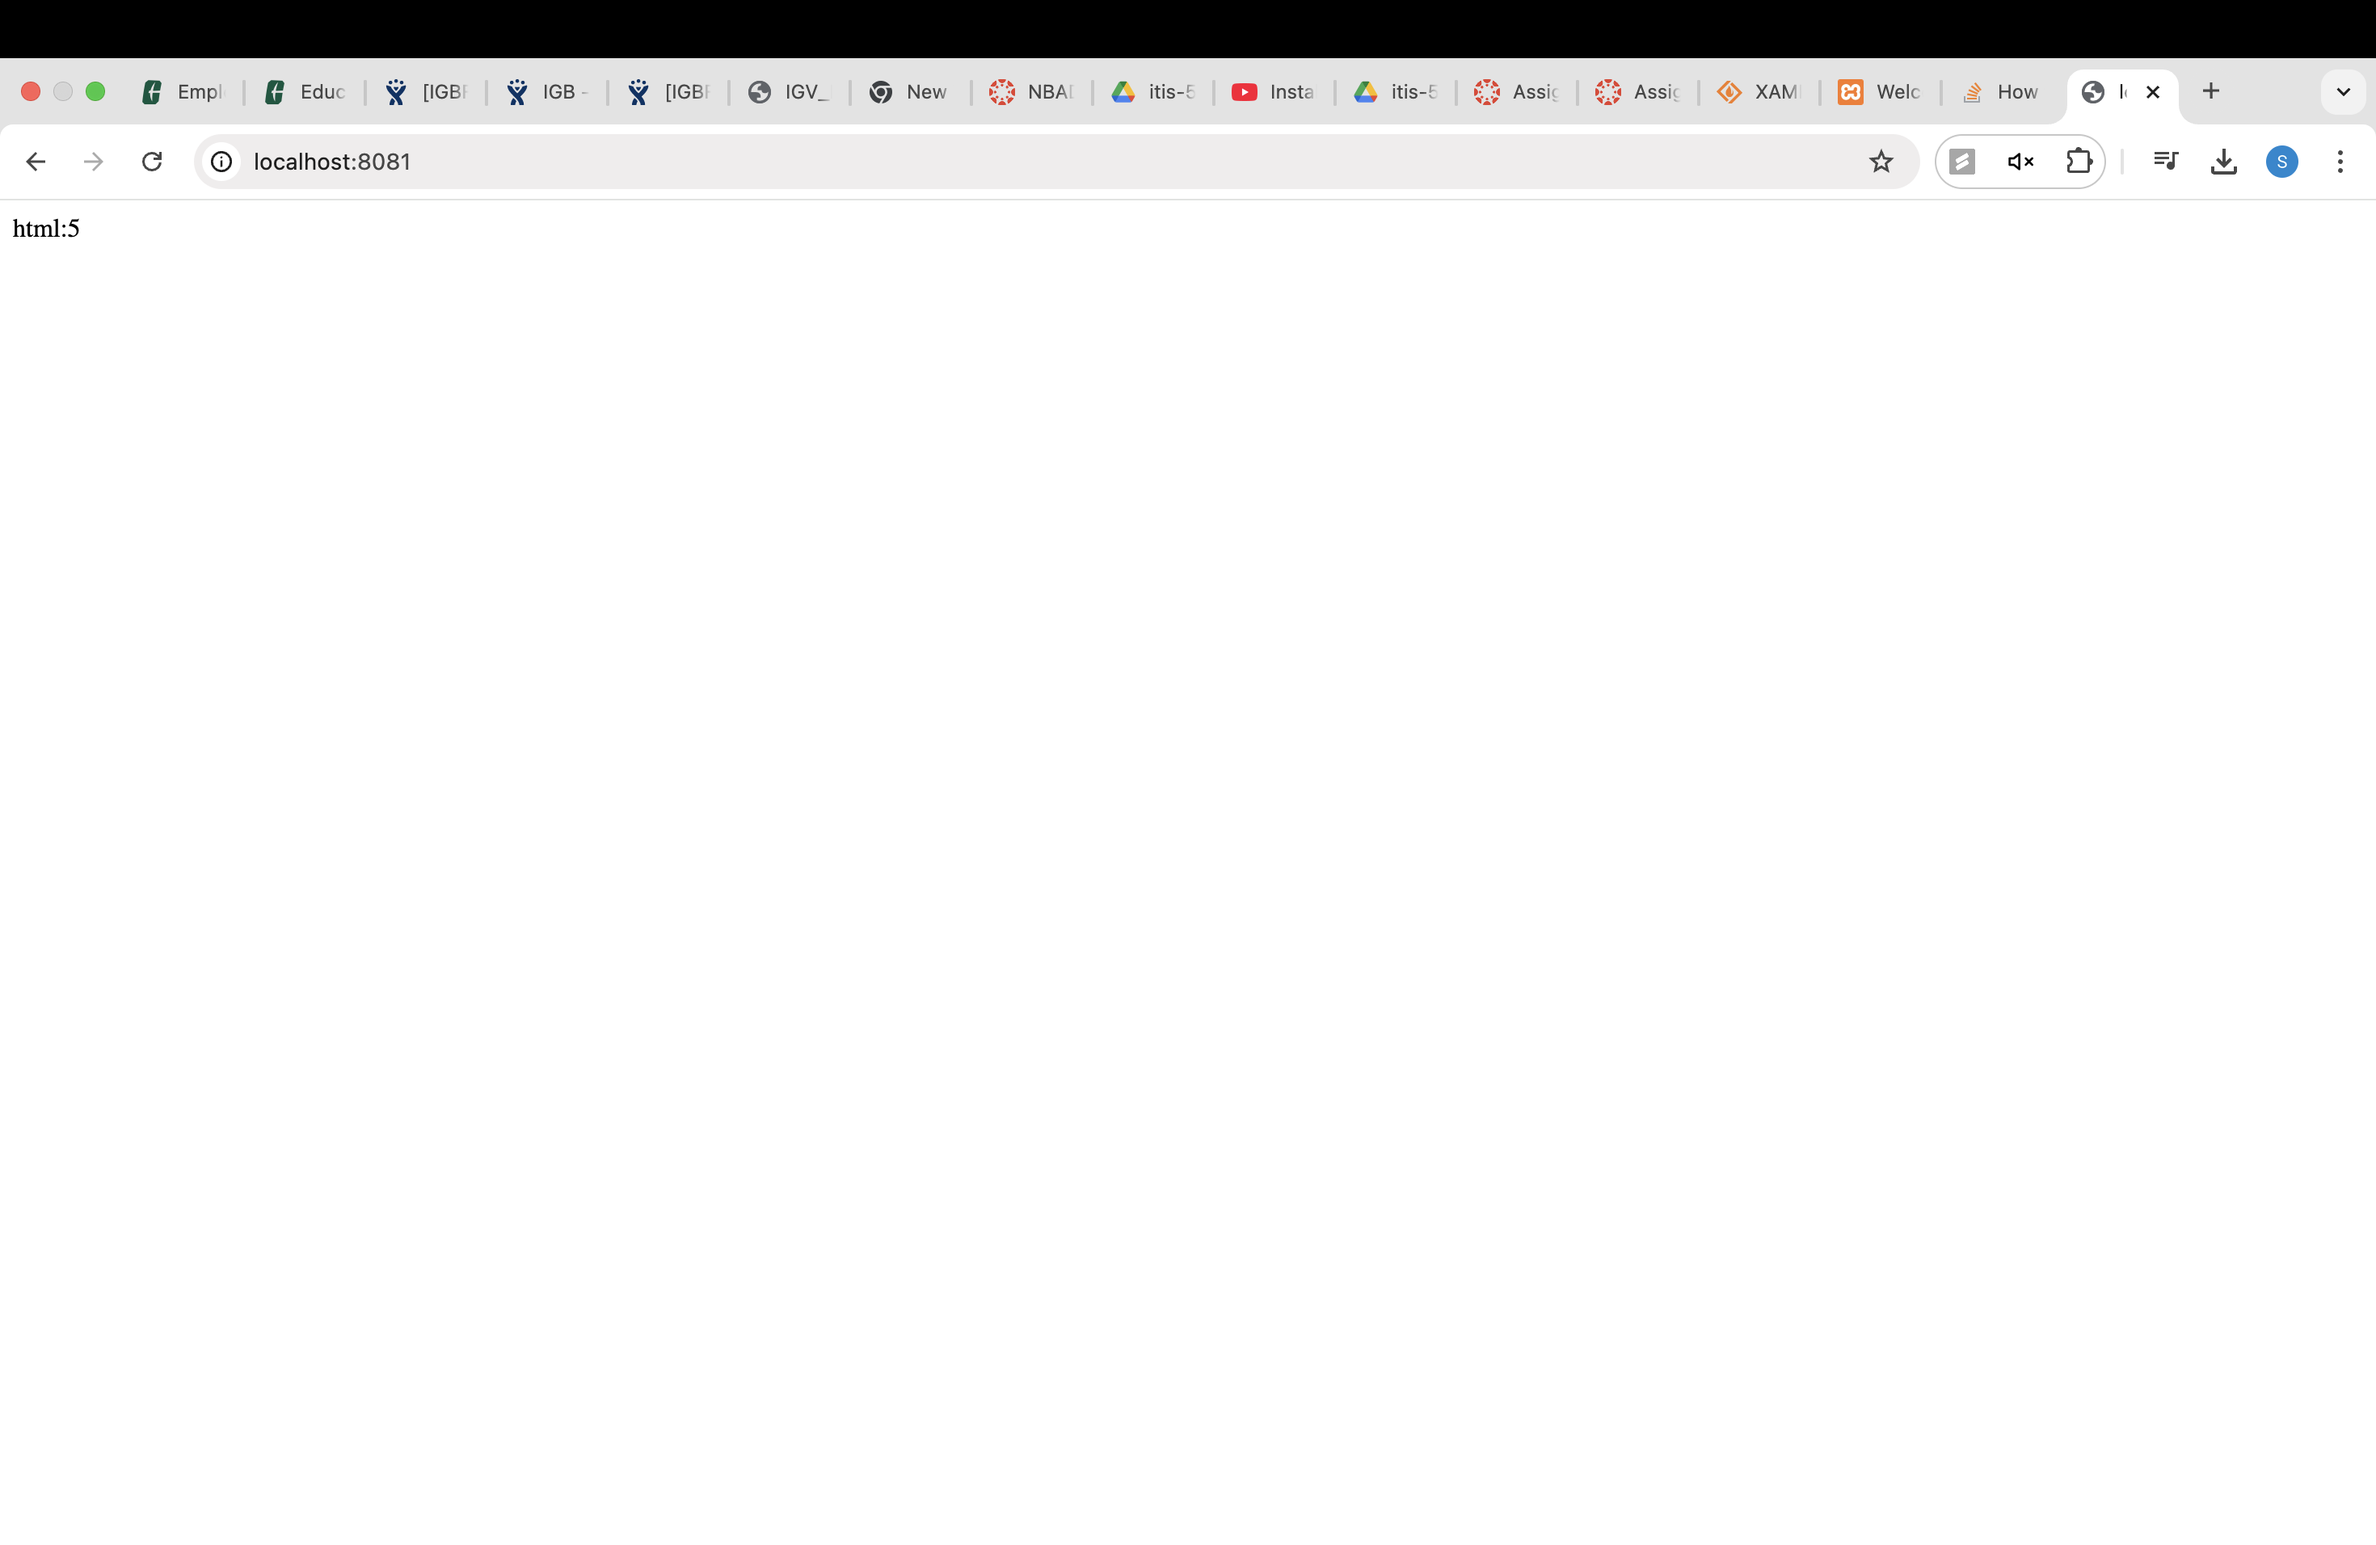
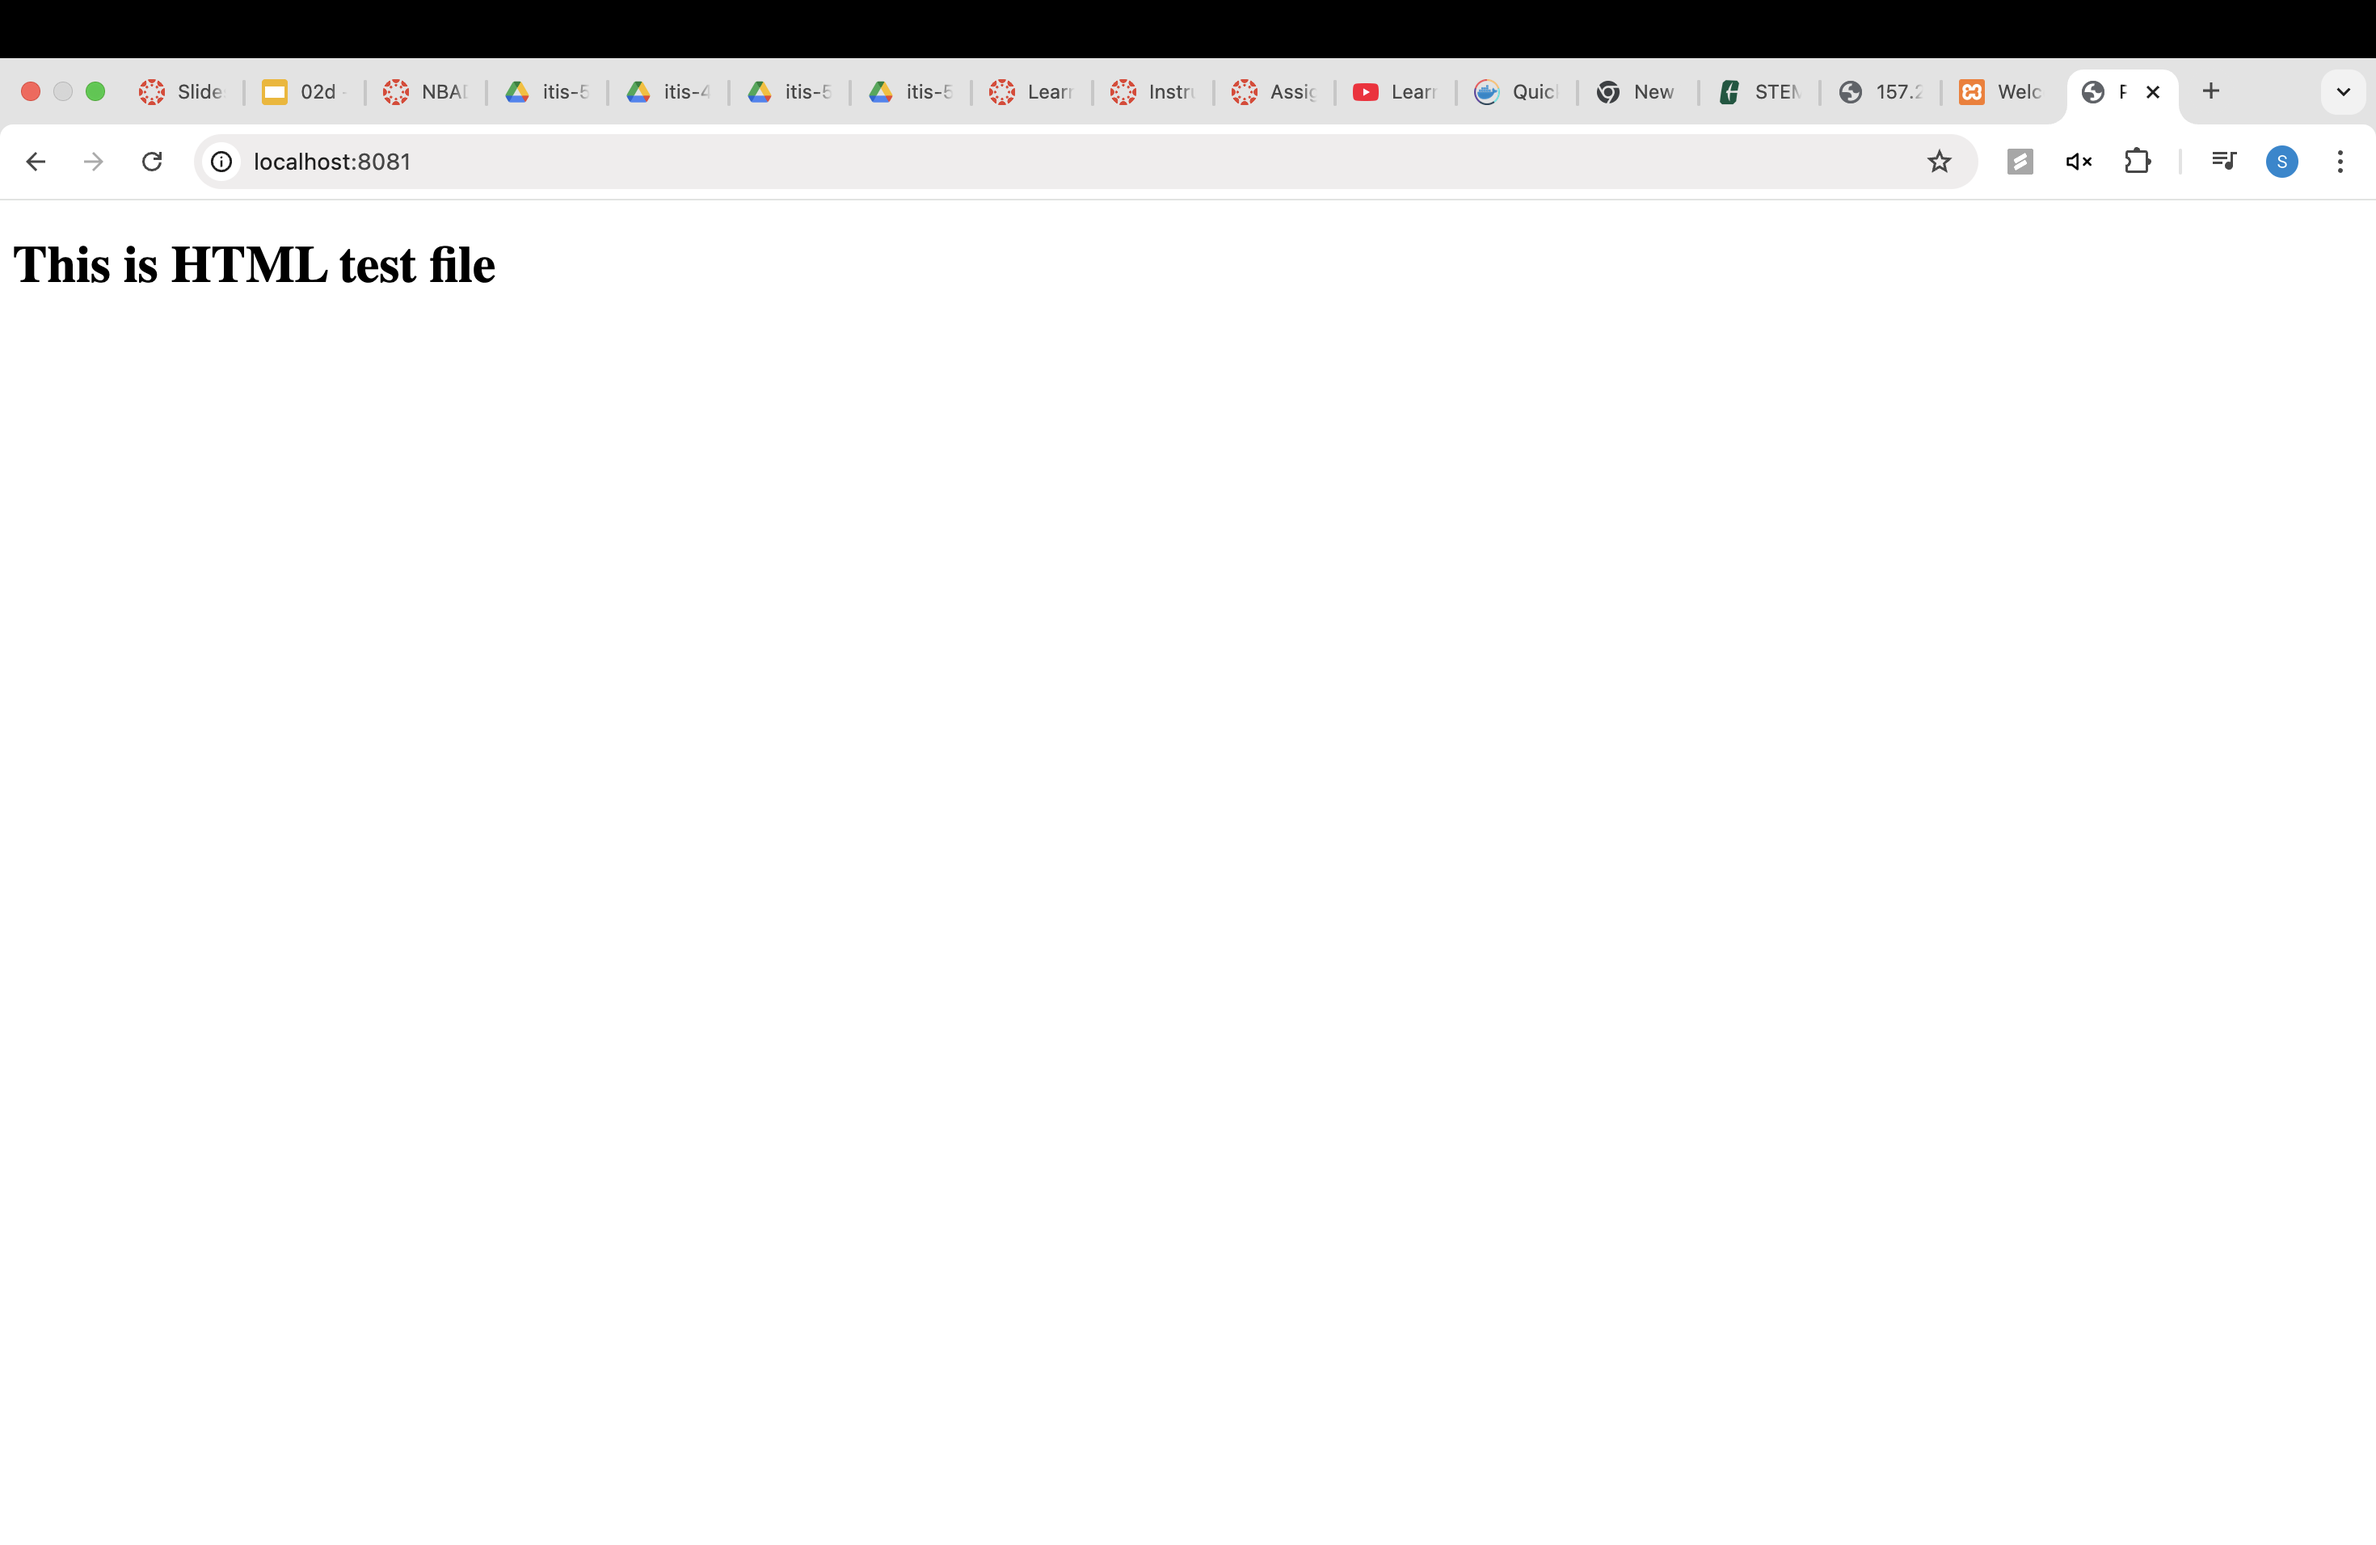
updated files

diff --git a/week2/index.html b/week2/index.html
@@ -1,1 +1,11 @@
-html:5
+<!DOCTYPE html>
+<html lang="en">
+<head>
+    <meta charset="UTF-8">
+    <meta name="viewport" content="width=device-width, initial-scale=1.0">
+    <title>Page Title</title>
+</head>
+<body>
+    <h1>This is HTML test file</h1>
+</body>
+</html>
